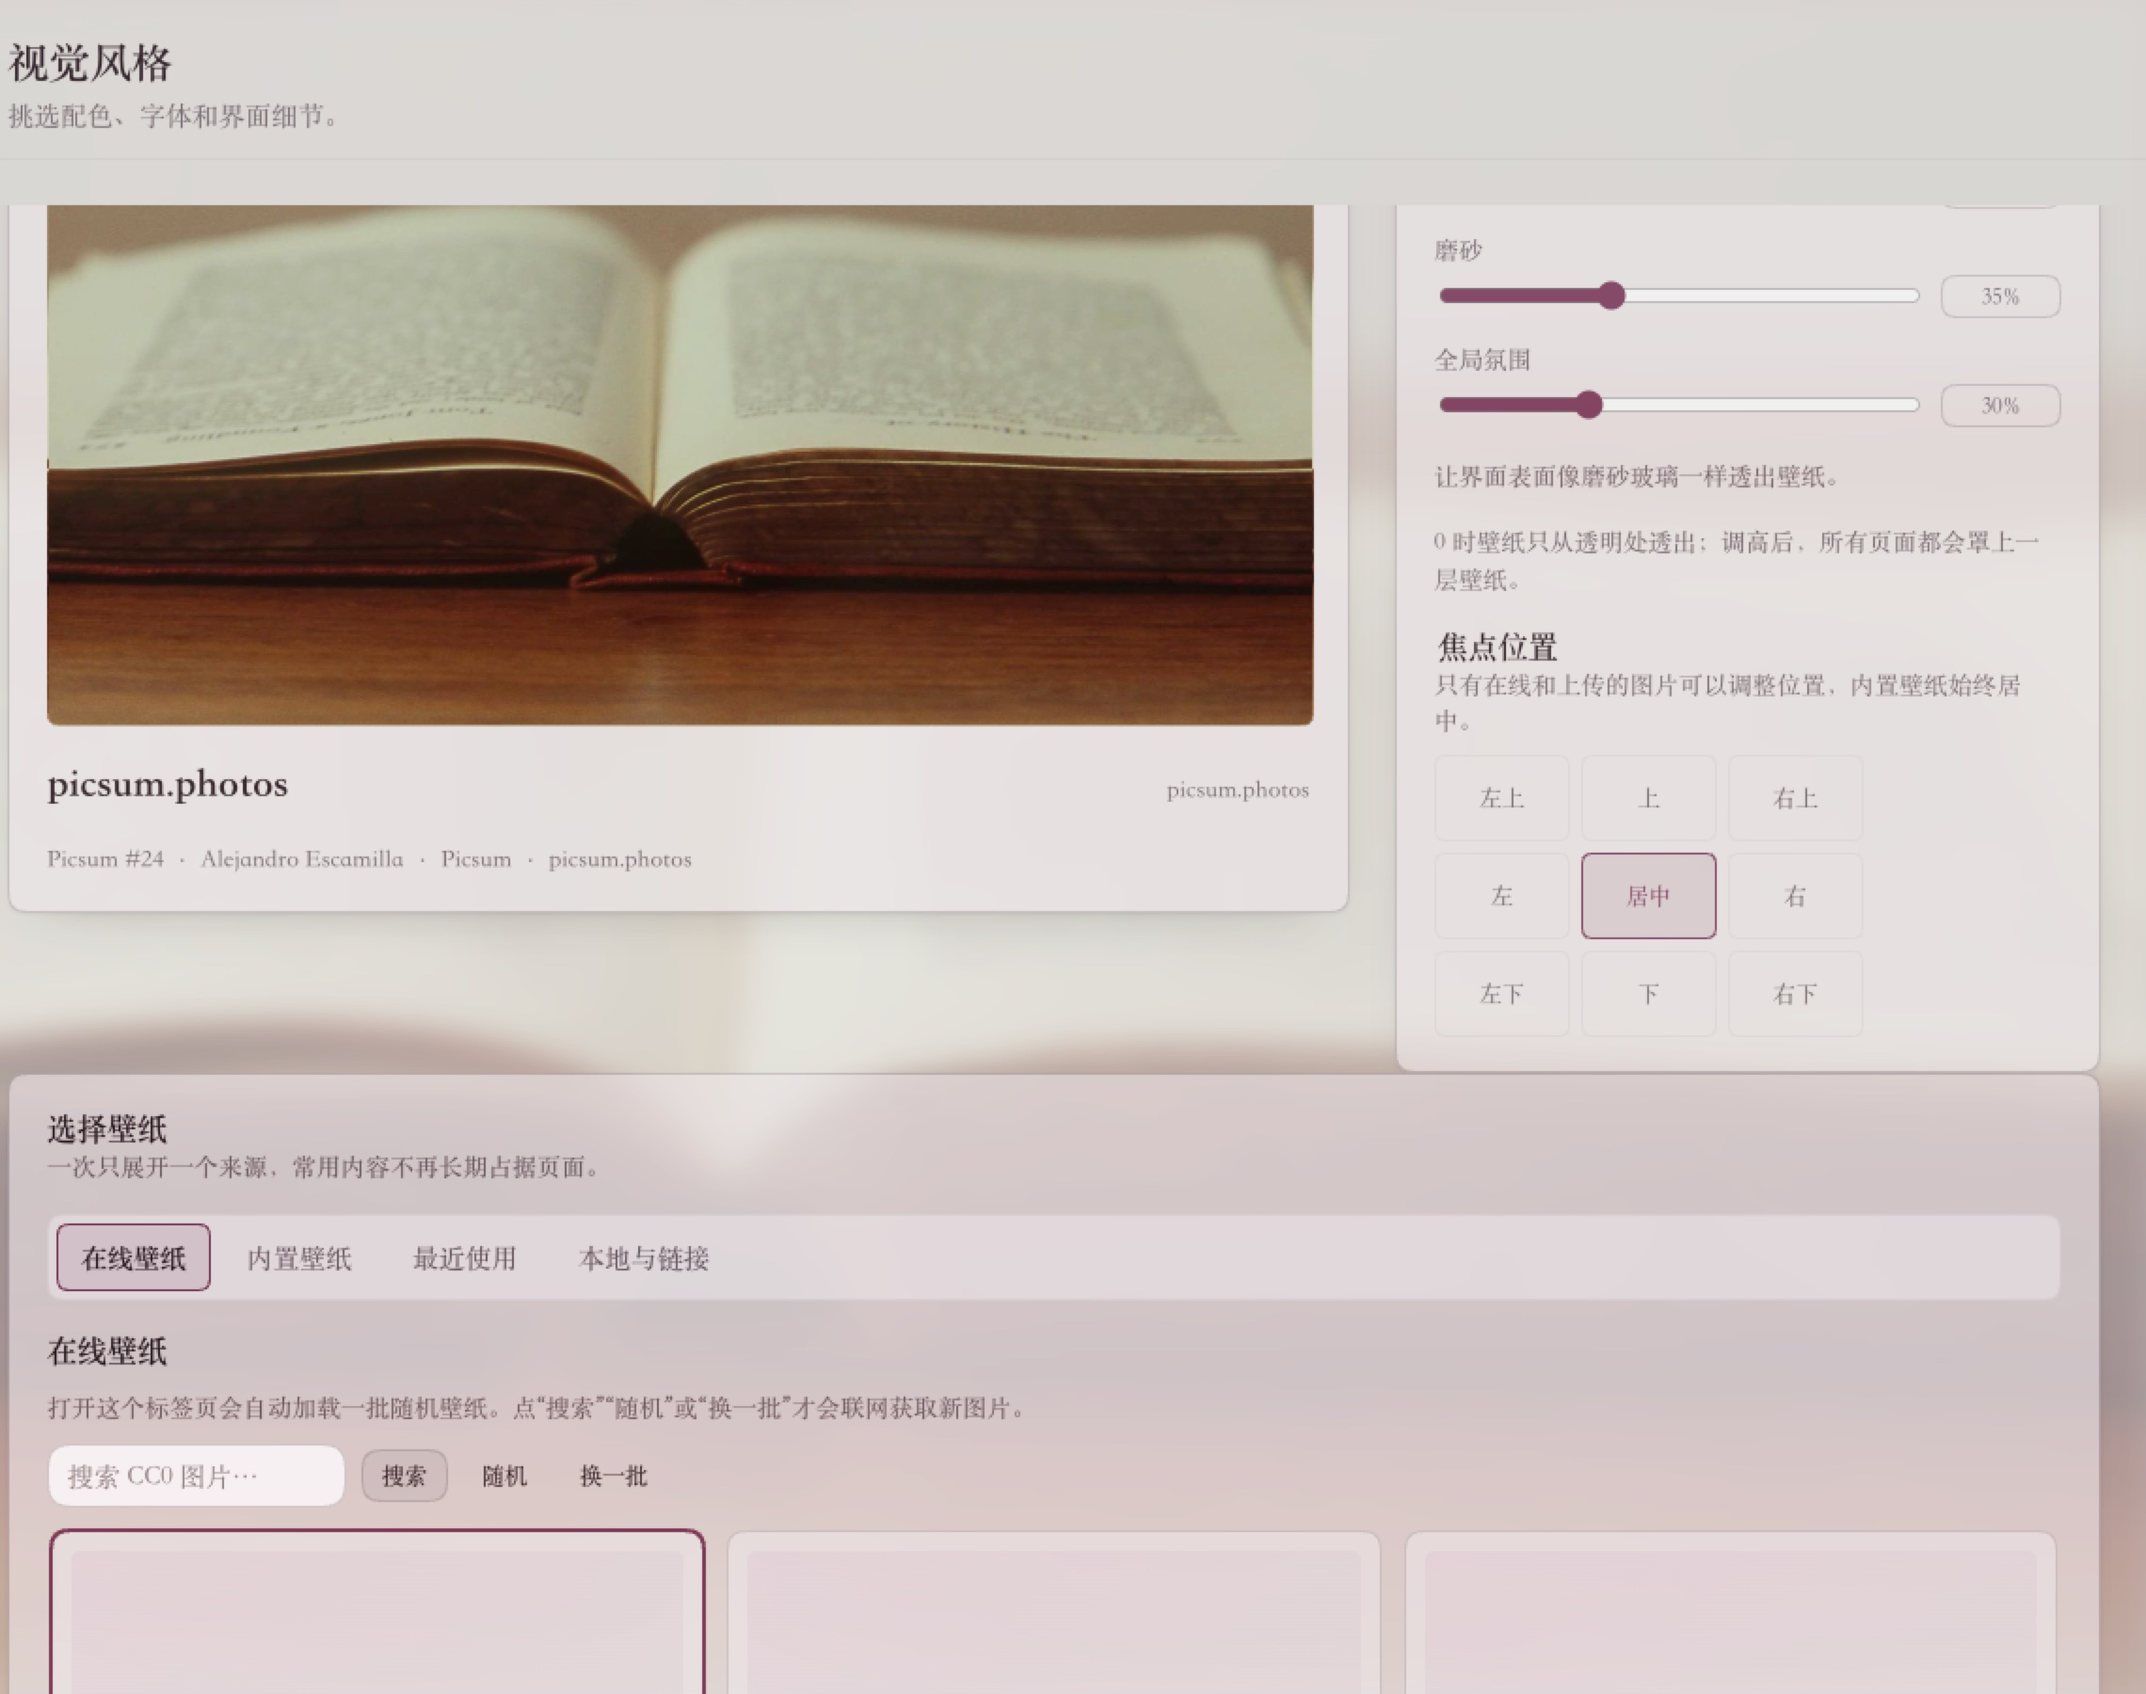
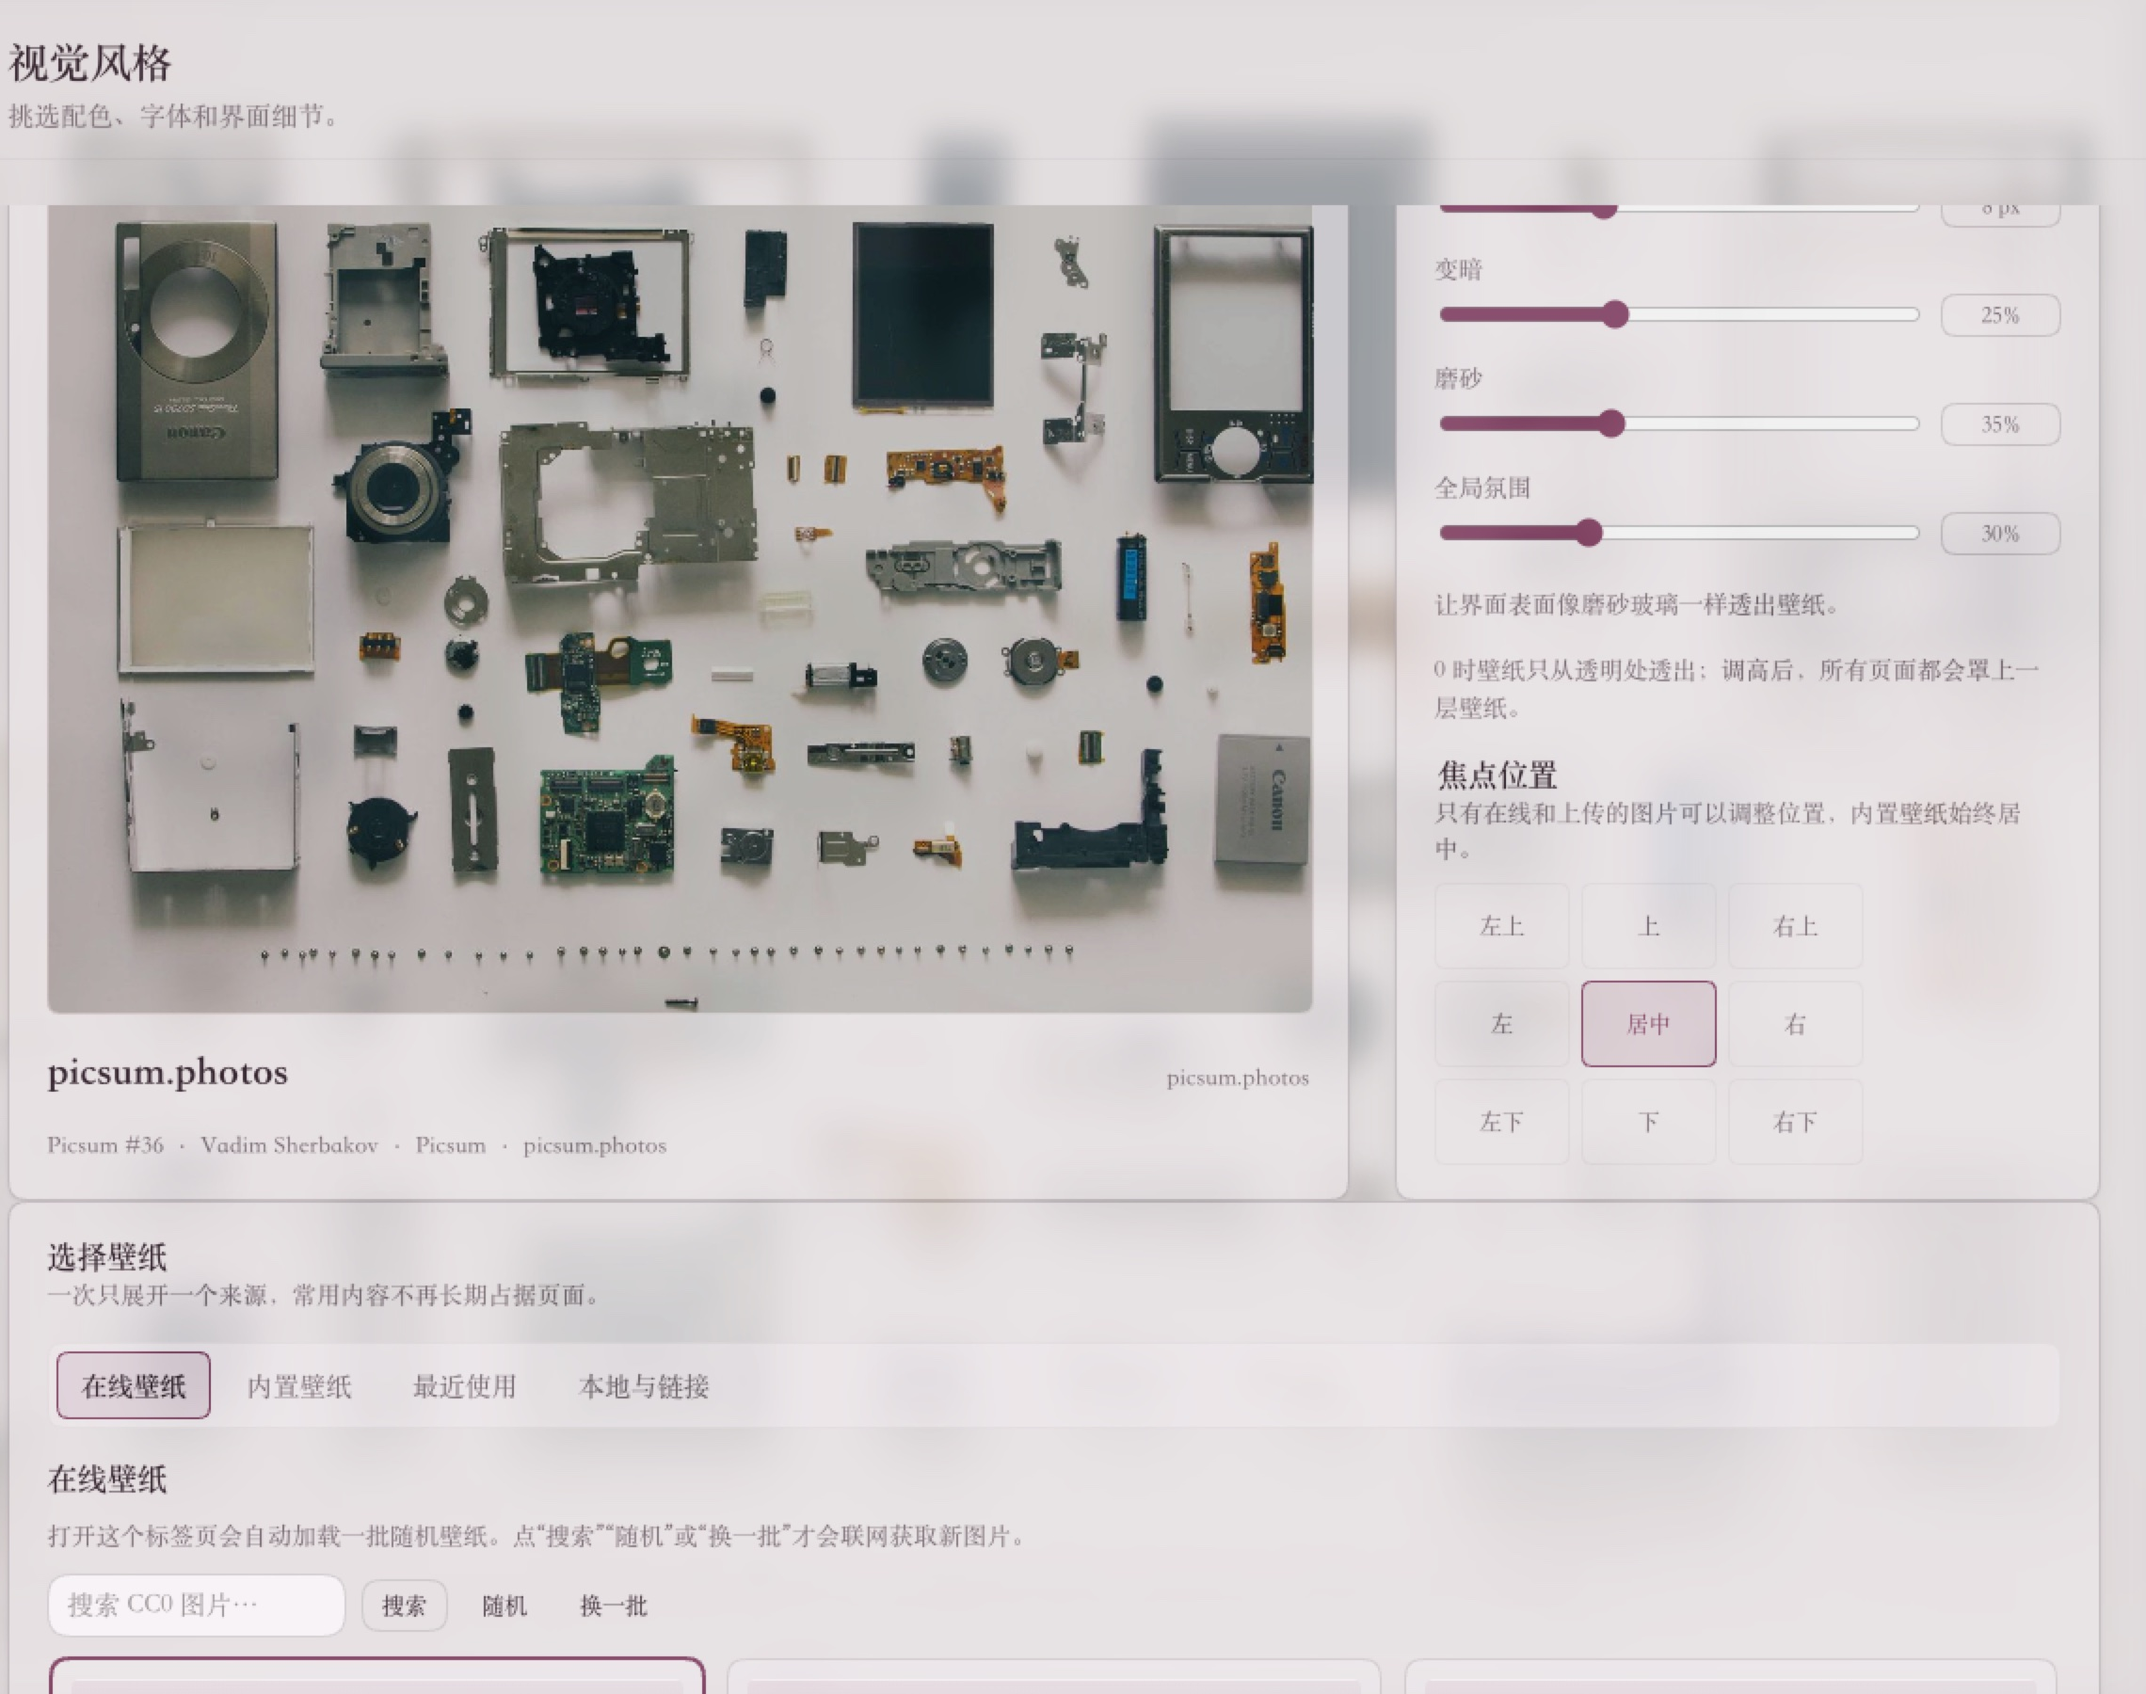
fix: align wallpaper workbench cards and refresh online README shots

diff --git a/src/styles/client.ts b/src/styles/client.ts
@@ -145,9 +145,10 @@ export const CLIENT_CSS = `
 .wallpaper-position__option input:focus-visible+span{outline:2px solid var(--lw-brand);outline-offset:2px}
 
 /* ---- 0.1.4 Studio information architecture ------------------------------ */
-.wallpaper-workbench{display:grid;grid-template-columns:minmax(0,1.9fr) minmax(320px,1fr);align-items:start;gap:var(--lw-gap-page);min-width:0}
+.wallpaper-workbench{display:grid;grid-template-columns:minmax(0,1.9fr) minmax(320px,1fr);align-items:stretch;gap:var(--lw-gap-page);min-width:0}
 .wallpaper-hero,.wallpaper-effects-card{min-width:0}
 .wallpaper-hero__preview{max-height:none;aspect-ratio:16/9}
+.wallpaper-hero__empty{max-height:none;aspect-ratio:16/9}
 .wallpaper-hero__info{display:flex;flex-wrap:wrap;align-items:baseline;justify-content:space-between;gap:6px 12px;padding-block-start:2px}
 .wallpaper-effects-card .wallpaper-effects-grid{grid-template-columns:minmax(0,1fr)}
 .wallpaper-effects-card .wallpaper-effect__control{width:100%}
@@ -204,7 +205,7 @@ export const CLIENT_CSS = `
 .livery-ui-card{padding:18px 20px}
 .wallpaper-manage.livery-ui-card{padding:0}
 .livery-gallery-head{padding-block:2px}
-@media (max-width: 1099px){.livery-hero__layout{grid-template-columns:minmax(0,1fr)}.livery-gallery-card .livery-grid{grid-template-columns:repeat(2,minmax(0,1fr))}.wallpaper-source-panel .livery-grid{grid-template-columns:repeat(2,minmax(0,1fr))}}
+@media (max-width: 1099px){.wallpaper-workbench{grid-template-columns:minmax(0,1fr)}.wallpaper-effects-card .wallpaper-effects-grid{grid-template-columns:repeat(2,minmax(0,1fr))}.livery-hero__layout{grid-template-columns:minmax(0,1fr)}.livery-gallery-card .livery-grid{grid-template-columns:repeat(2,minmax(0,1fr))}.wallpaper-source-panel .livery-grid{grid-template-columns:repeat(2,minmax(0,1fr))}}
 @container livery-studio (max-width: 959px){
   .wallpaper-effects-card .wallpaper-effects-grid{grid-template-columns:minmax(0,1fr)}
   .livery-hero__layout{grid-template-columns:minmax(0,1fr)}
@@ -224,7 +225,8 @@ export const CLIENT_CSS = `
   .wallpaper-source-panel .livery-grid{grid-template-columns:repeat(2,minmax(0,1fr))}
   .wallpaper-local-grid{grid-template-columns:minmax(0,1fr)}
 }
-@media (max-width:799px){.wallpaper-workbench{grid-template-columns:minmax(0,1fr)}.wallpaper-hero__preview{max-width:400px}}
+@media (max-width:799px){.wallpaper-hero__preview{max-width:400px}}
+@media (min-width:1100px){.wallpaper-workbench{align-items:stretch}.wallpaper-hero__preview{flex:1 1 auto;min-height:0;aspect-ratio:auto}.wallpaper-hero__empty{flex:1 1 auto;min-height:0;aspect-ratio:auto}}
 @container livery-studio (max-width: 639px){
   .wallpaper-workbench{grid-template-columns:minmax(0,1fr)}
   .wallpaper-hero__preview,.wallpaper-hero__empty{max-width:none}

diff --git a/CHANGELOG.md b/CHANGELOG.md
@@ -19,6 +19,7 @@ packaging; they are folded into the `0.1.0` entry.
 
 - 修复壁纸工作台在中等宽度被压成横条、预览图严重裁切的问题：移除 `max-height` 变形约束，保持 16:9；1024px 使用双列工作台，窄屏改回全宽比例预览。
 - 壁纸来源选择保持单卡四页签；来源入口在常见宽度下不再被异常压缩。
+- 壁纸页当前壁纸与效果卡在宽屏等高对齐，避免一侧高一侧低、底边错位；1024/767 使用等高单列，保持左右边缘一致。
 - 视觉/布局验收与 README 样式截图改用真实在线 Picsum 壁纸，不再用内置壁纸作为风格、frost、atmosphere 和矩阵截图的基准。
 
 ### Changed
